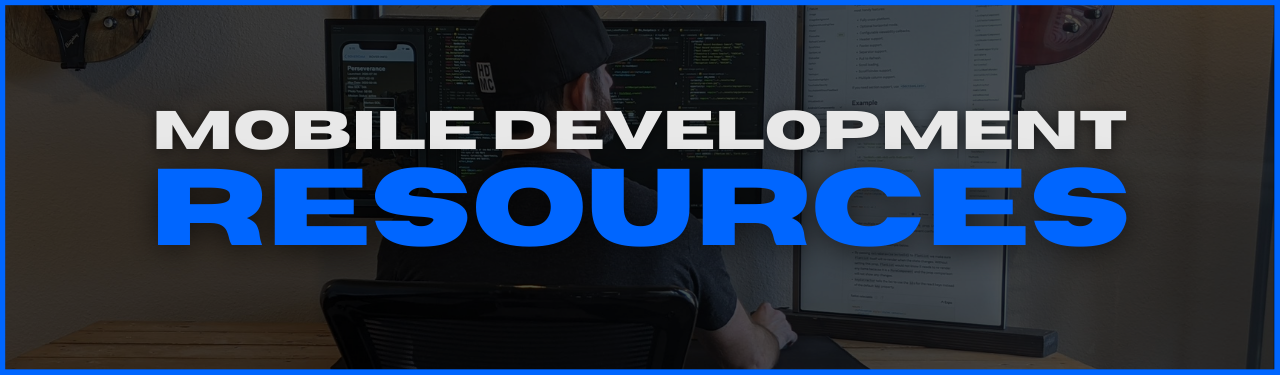
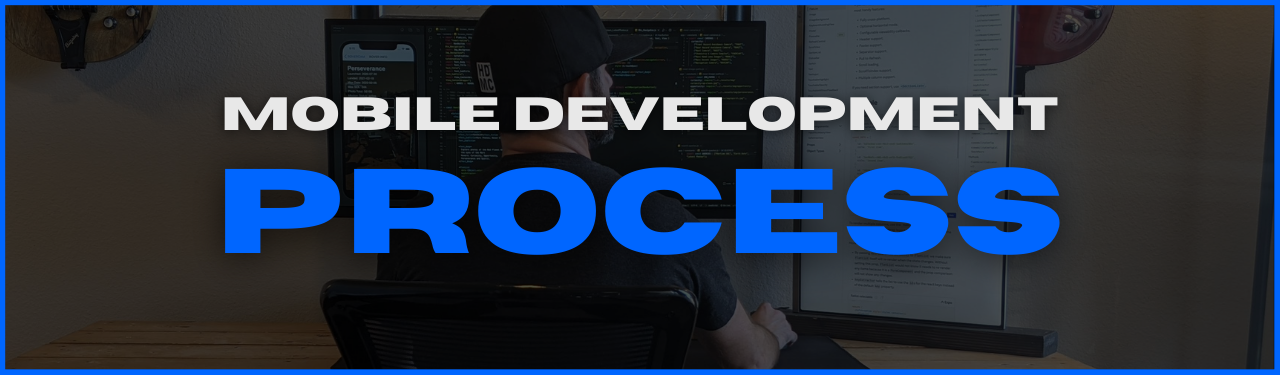
update title & preview graphics

Changed region(s): [[0.125, 0.44, 0.9062, 0.704], [0.125, 0.2347, 0.9062, 0.4107]]

diff --git a/README.md b/README.md
@@ -148,7 +148,7 @@ objectively attempt to INVALIDATE your idea - if you can't, it's go time
 </details>
 
 <details>
-<summary>User Interface & Experience</summary>
+<summary>UI / UX Design</summary>
 
 ## **ANDROID**
 
@@ -181,9 +181,6 @@ objectively attempt to INVALIDATE your idea - if you can't, it's go time
 
 <details>
 <summary>Project / Schedule Management</summary>
-
-- benchmark dates
-  **PROJECT LIFECYCLE**
 
 - [Azure DevOps](https://azure.microsoft.com/en-us/services/devops/?nav=min)
 - [GitHub Projects](https://docs.github.com/en/issues/trying-out-the-new-projects-experience/about-projects)
